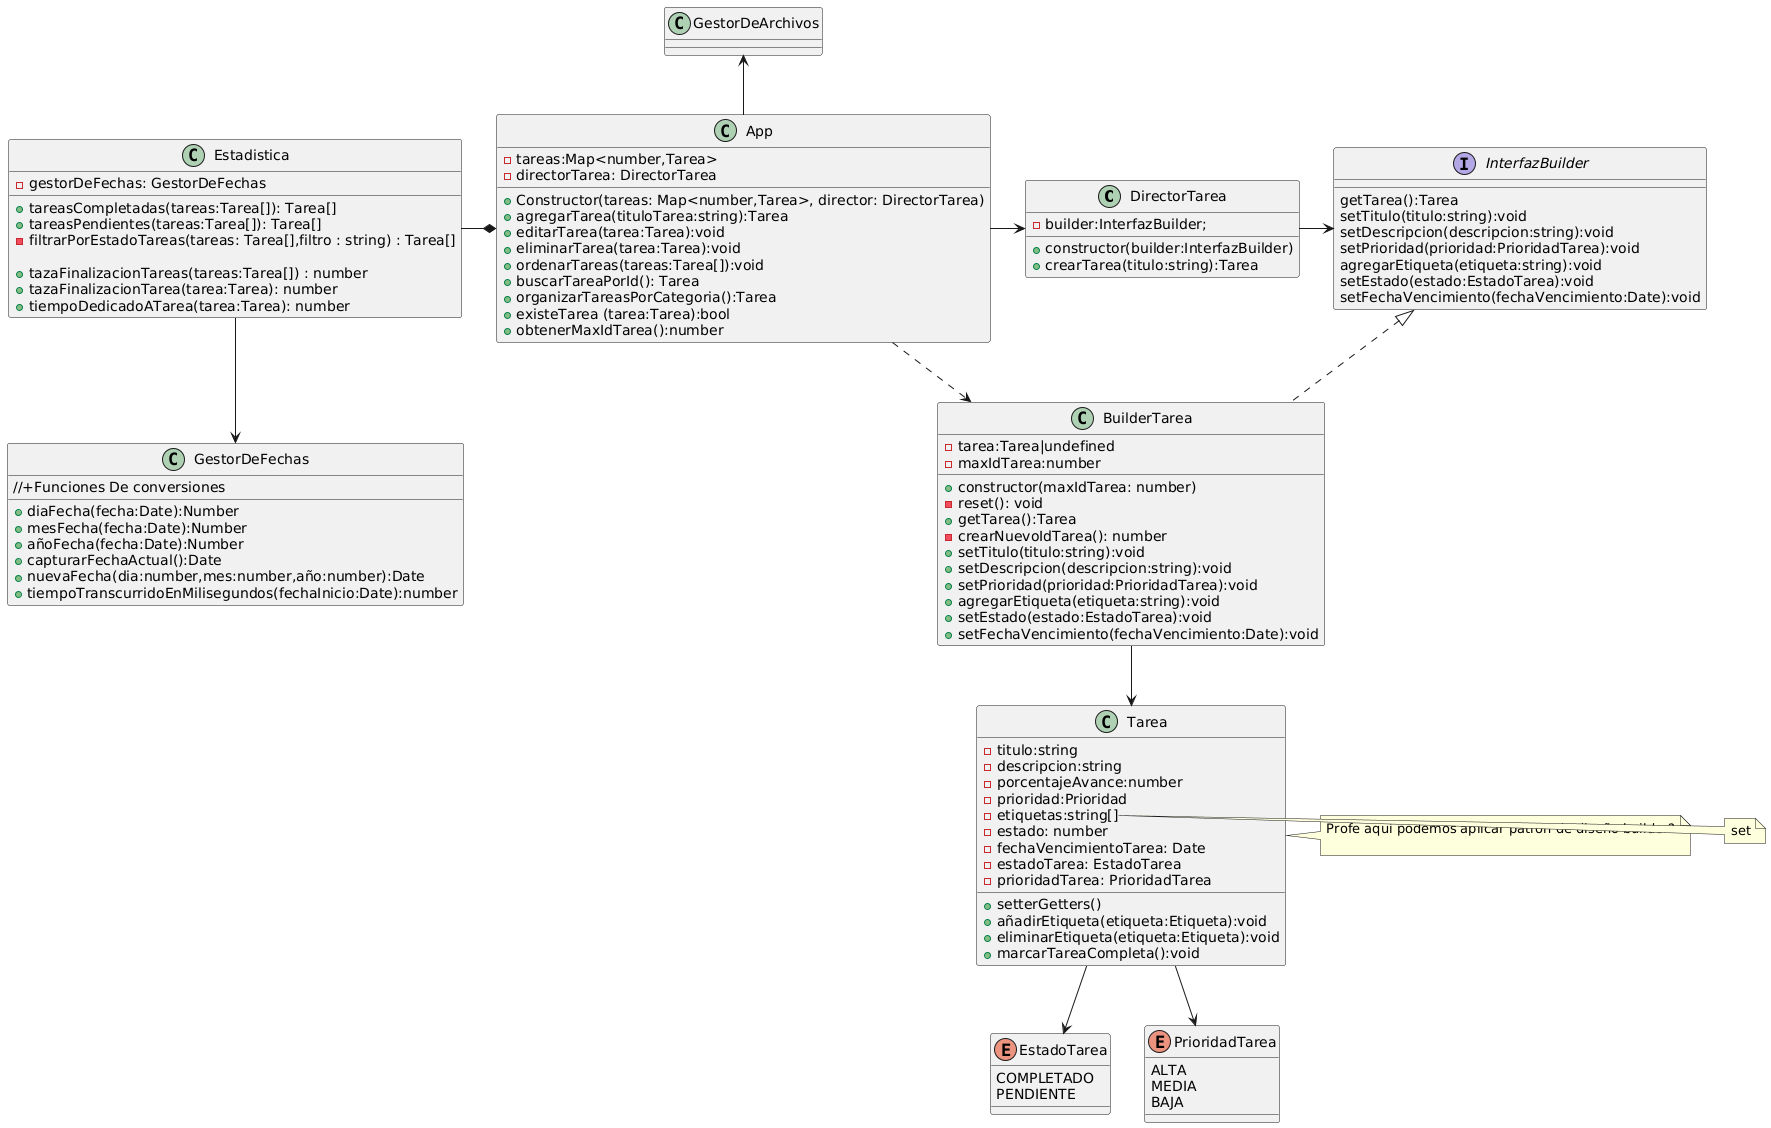
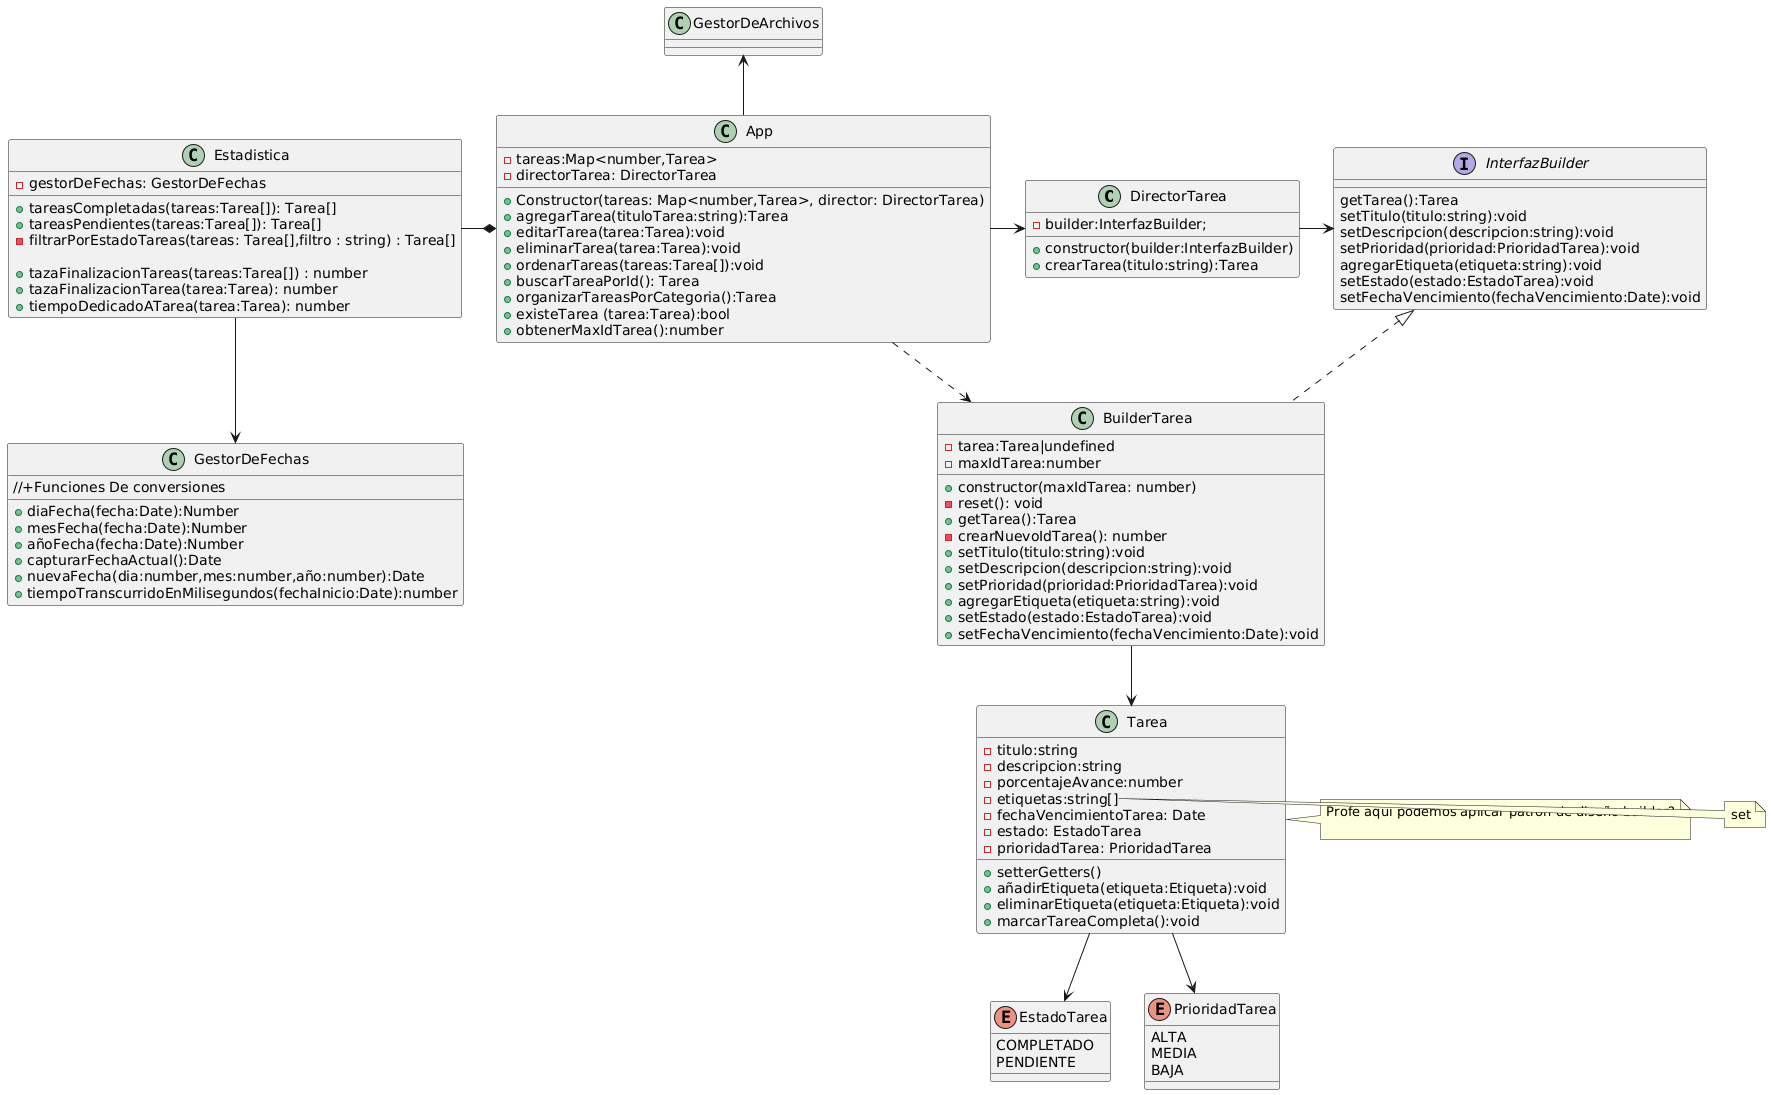
Modificación en Diagrama de clases en la ultima version, revision de existencia de método buscarEtiqueta,  En Tarea agregarEtiqueta y eliminar, cambios menores en App

diff --git a/src/Tarea/Tarea.ts b/src/Tarea/Tarea.ts
@@ -76,9 +76,6 @@ export default class Tarea {
         this.prioridad = prioridad;
     }
 
-    public agregarEtiquetas(etiqueta:string): void {
-        this.etiquetas.push(etiqueta);
-    }
 
     public setEstado(estado: EstadoTarea): void {
         this.estado = estado;
@@ -88,26 +85,39 @@ export default class Tarea {
         this.fechaVencimiento = fechaVencimiento;
     }
 
+    //Método para agregar etiquetas
+    public agregarEtiquetas(etiqueta:string): void {
+        this.etiquetas.push(etiqueta);
+    }
     // Other methods
-    public AñadirEtiqueta(etiqueta: string): void {
 
-    }
-
+   
+    //recorre cada elemento etiquetaBuscada del array etiquetas
+    //comparo cada etiqueta etiquetaBuscada en el array con la etiqueta que quiero eliminar 
+    //Si et no es igual a la etiqueta a eliminar, el elemento se incluye en el nuevo array.
+    //Si et es igual a la etiqueta que quieres eliminar, filter excluye este elemento del nuevo array.
     public EliminarEtiqueta(etiqueta: string): void {
-
+            this.etiquetas = this.etiquetas.filter(etiquetaBuscada => etiquetaBuscada !== etiqueta);
     }
 
+    //VER PORQUE CON EL FILTER NO NECESITO HACER ESTA BUSQUEDA ASI
+    //Descubri el metodo find, aqui recorre el array de etiquetas y si la en cuentra retorna un string
+    //public buscarEtiqueta(etiqueta:string):string|null{
+      // return this.etiquetas.find(etiquetaEncontrada=>etiquetaEncontrada===etiqueta)||null;
+    //}
 
     public MarcarTarea(): void {
         
         if(this.porcentajeAvance=100){
             this.estado=EstadoTarea.COMPLETADO;
+
         } else if((this.porcentajeAvance==0) || (this.porcentajeAvance==25)|| (this.porcentajeAvance==50)){
             this.estado=EstadoTarea.PENDIENTE;
-         }else{
-            //Arrojar una Excepción los valores indicados no estan dentro de los parametros
-         }
-        
+          
+            }else{
+                //Arrojar una Excepción los valores indicados no estan dentro de los parametros
+            }
+            
     }
 
 

diff --git a/src/App/App.ts b/src/App/App.ts
@@ -41,6 +41,7 @@ export class App{
 
     //Vamos a revisarla bien, podemos pasar un objeto dentro de un map para
     //setear los parámetros que debamos modificar
+
     public editarTarea(tarea:Tarea):void{ 
         //como no es una API, la modificacion de la tarea sale de la tarea en si, podemos recibir la tarea y actualizarla en el map.
         // en un mapa si ya existe la entrada, en este caso el ID, la updatea con el nuevo valor(objeto). seria mas un actualizarTarea.
@@ -52,12 +53,16 @@ export class App{
 
             this.tareas.set(idTarea,tarea);
 
-        }  //TODO: Aqui no le agregaria la tarea sino que tiraria una excepción
+        }  //TODO: si no encuentro la tarea tiro una excepción o la agrego??
         //Revisar
         // else this.agregarTarea(tarea);
         
     }
 
+    public editarTituloTarea(tarea:Tarea):void{
+
+
+    }
     //TODO: editar: titulo, descripcion,porcentajeAvance,etiquetas,fechaVencimiento,estadoTarea,prioridadTarea
 
     public eliminarTarea(tarea:Tarea):void{
